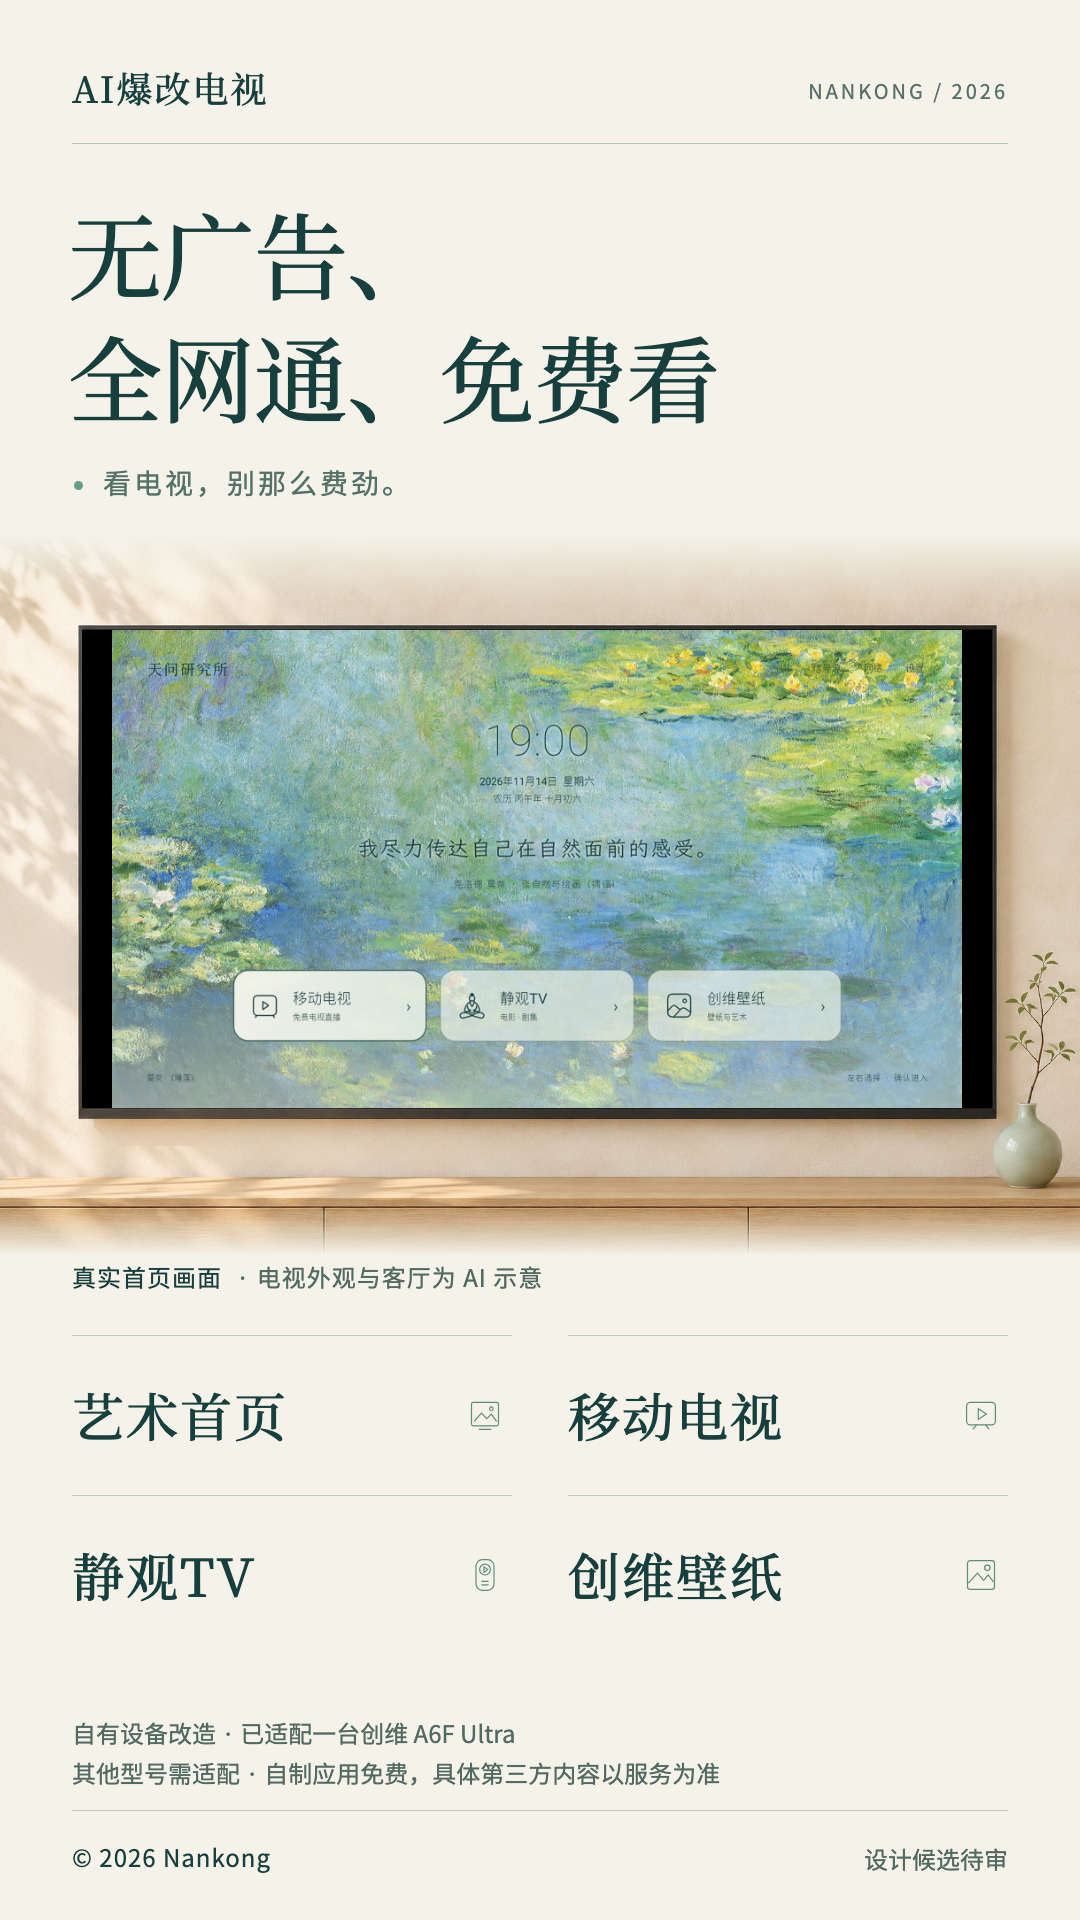
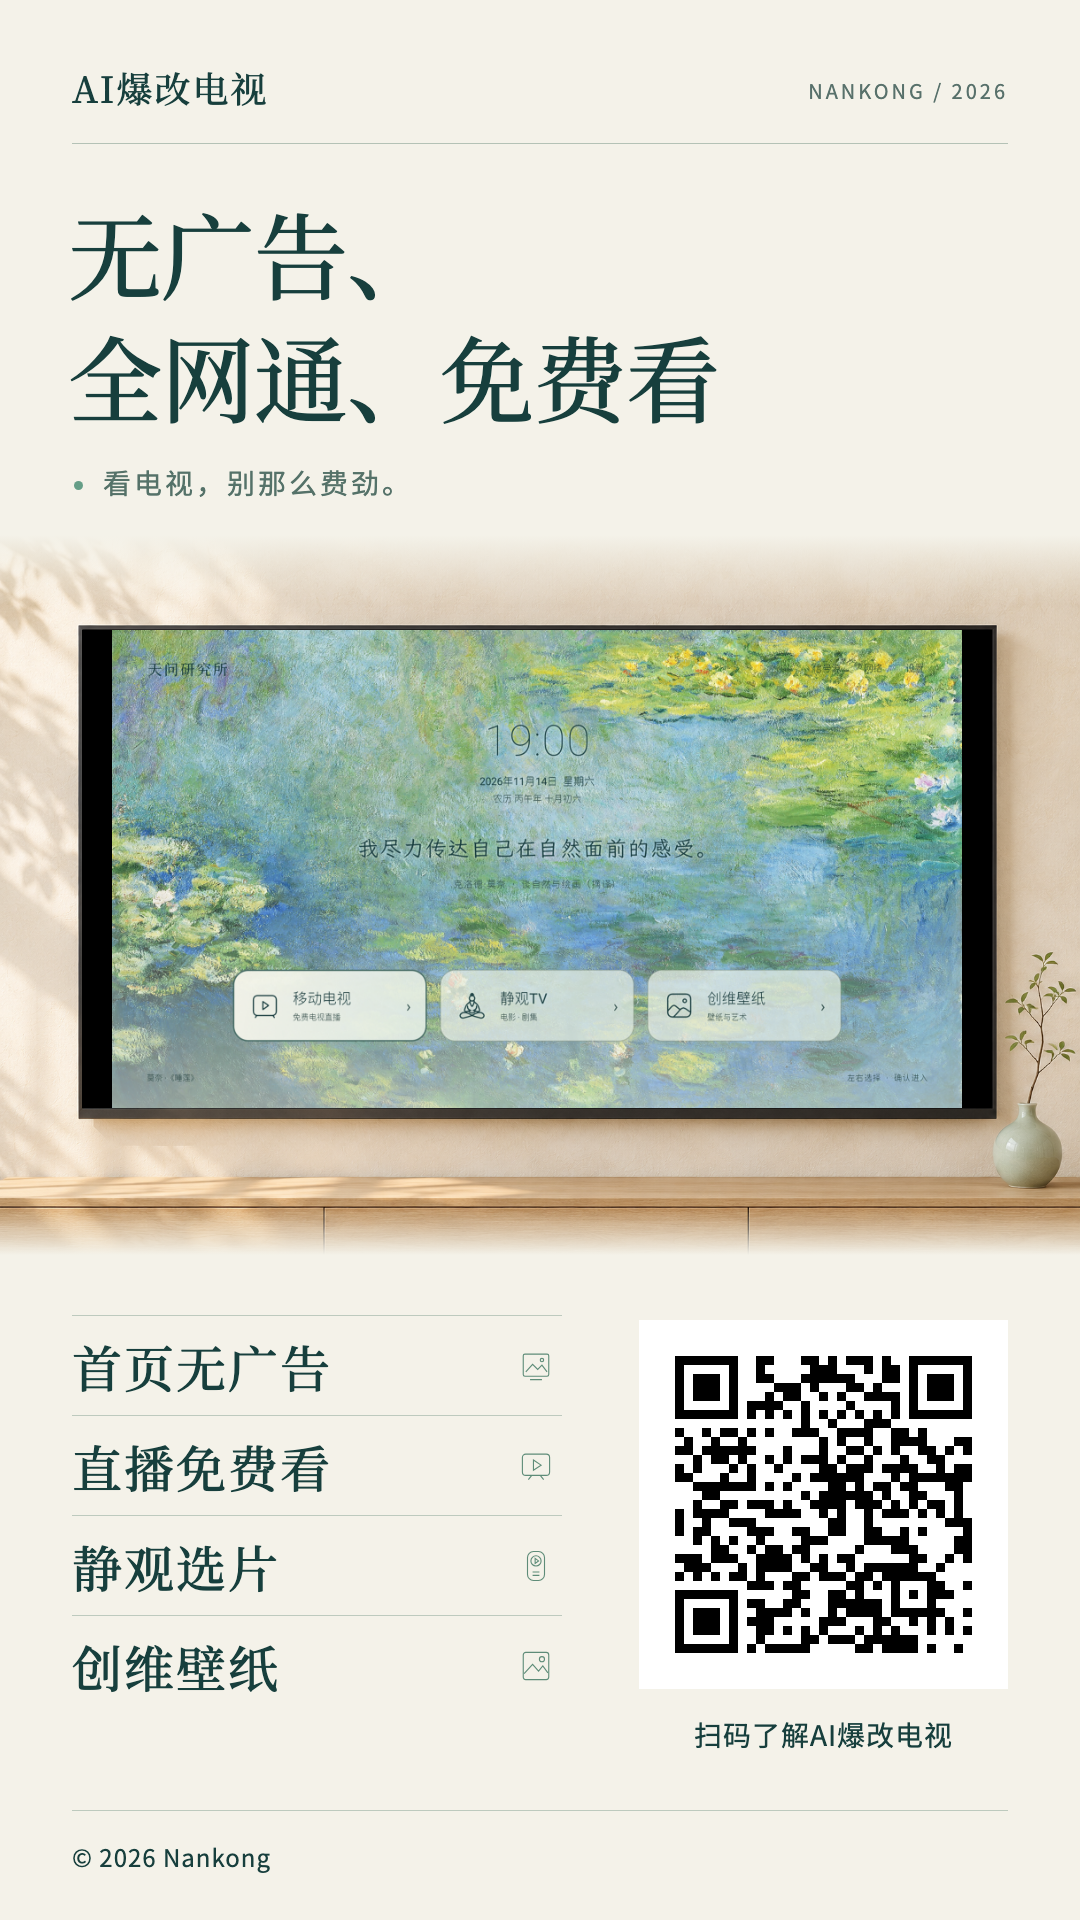
Update poster copy and add public website QR

diff --git a/index.html b/index.html
@@ -74,7 +74,7 @@
           <div class="film-caption"><p><strong id="film-name">真实界面 · 演示预览</strong><span id="film-description">演示短片制作中，当前展示实机截图。</span></p><a id="video-download" class="text-link" hidden download>下载9秒短片 <span aria-hidden="true">↓</span></a></div>
           <p class="fine-print">9秒短片采用已部署的首页、直播、静观TV与创维壁纸实机截图剪辑，非连续操作录屏。具体功能与适配范围见成果记录。</p>
         </div>
-        <aside class="poster-column"><p class="module-label">项目海报 <span>POSTER</span></p><div id="poster-placeholder" class="poster-note"><span class="poster-symbol" aria-hidden="true">看</span><h3>首页清爽，<br>直播直达。</h3><p>竖版宣传海报制作中。<br>完成后在这里查看与保存。</p></div><figure id="poster-ready" hidden><a id="poster-open" class="image-zoom" data-caption="AI爆改电视 · 产品宣传海报 · 设计候选待审"><img id="promo-poster" width="1080" height="1920" loading="lazy" alt="AI爆改电视竖版产品宣传海报。"></a><figcaption><a id="poster-download" class="text-link" download>保存候选海报 <span aria-hidden="true">↓</span></a><p class="fine-print">设计候选 · 待审<br>首页画面真实，电视外观与客厅为 AI 示意。</p></figcaption></figure></aside>
+        <aside class="poster-column"><p class="module-label">项目海报 <span>POSTER</span></p><div id="poster-placeholder" class="poster-note"><span class="poster-symbol" aria-hidden="true">看</span><h3>首页清爽，<br>直播直达。</h3><p>竖版宣传海报制作中。<br>完成后在这里查看与保存。</p></div><figure id="poster-ready" hidden><a id="poster-open" class="image-zoom" data-caption="AI爆改电视 · 产品宣传海报"><img id="promo-poster" width="1080" height="1920" loading="lazy" alt="AI爆改电视竖版产品宣传海报。"></a><figcaption><a id="poster-download" class="text-link" download>保存宣传海报 <span aria-hidden="true">↓</span></a></figcaption></figure></aside>
       </div>
       <noscript><p class="noscript-note">真实截图与全部说明可直接浏览。演示播放器与海报的自动装载需要 JavaScript。</p></noscript>
     </section>

diff --git a/app.js b/app.js
@@ -65,9 +65,9 @@
     poster.addEventListener('load', () => {
       open.href = media.poster;
       download.href = media.poster;
-      open.dataset.caption = 'AI爆改电视 · 宣传海报 · 设计候选待审';
-      poster.alt = 'AI爆改电视竖版宣传海报：真实首页画面与客厅合成展示，设计候选待审。';
-      download.innerHTML = '保存候选海报 <span aria-hidden="true">↓</span>';
+      open.dataset.caption = 'AI爆改电视 · 宣传海报';
+      poster.alt = 'AI爆改电视竖版宣传海报：无广告、全网通、免费看，附公开网站二维码。';
+      download.innerHTML = '保存宣传海报 <span aria-hidden="true">↓</span>';
       placeholder.hidden = true;
       ready.hidden = false;
     }, { once: true });
